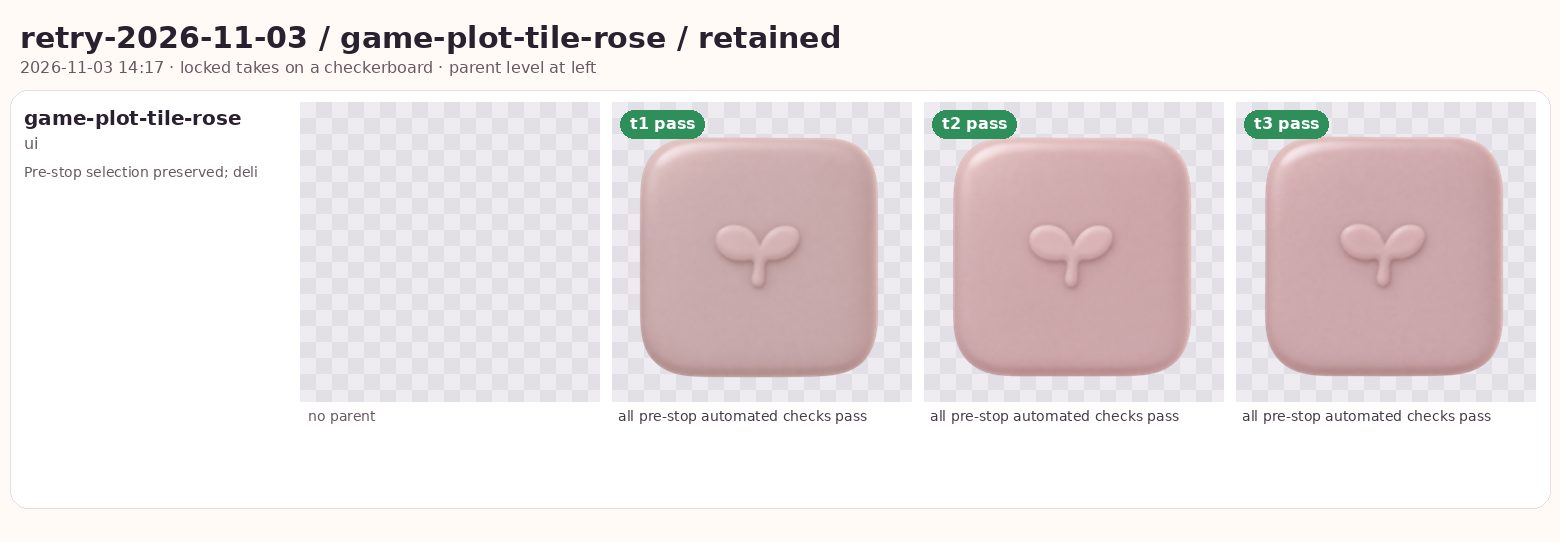
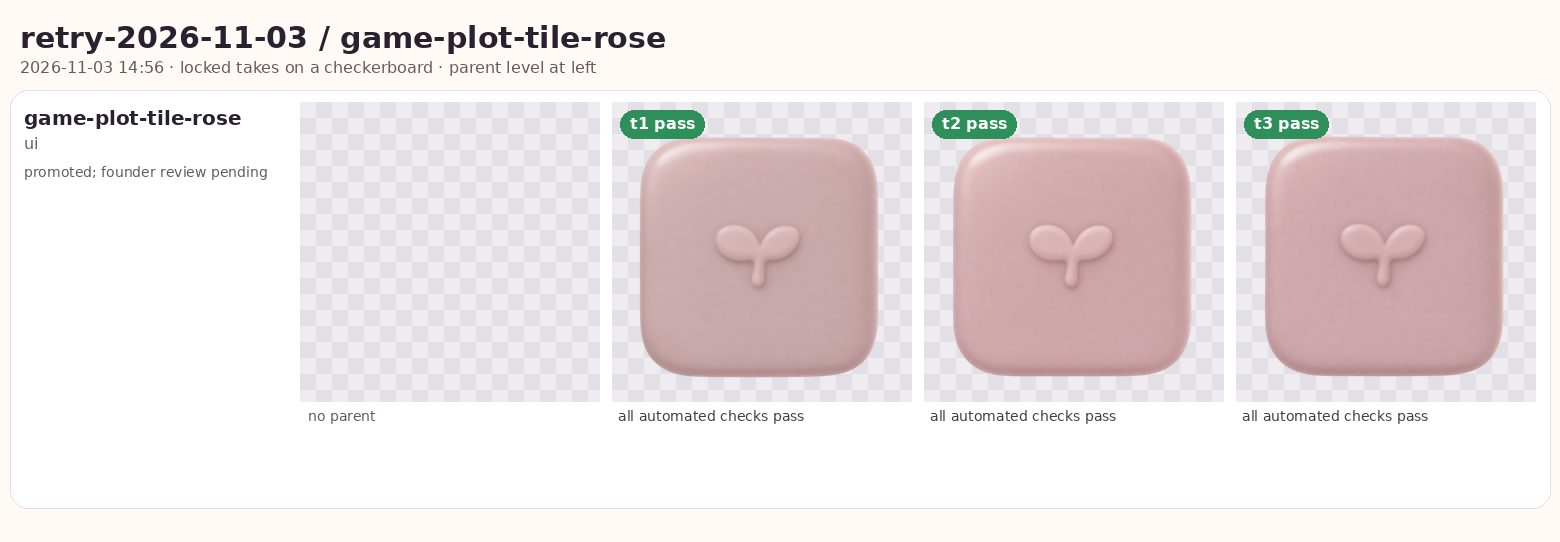
design(art): publish game-plot-tile-rose
Generated-With: OpenAI Codex

diff --git a/design/art/ui/ui-game-plot-tile-rose/provenance.md b/design/art/ui/ui-game-plot-tile-rose/provenance.md
@@ -1,0 +1,50 @@
+# ui__game-plot-tile-rose
+
+- **Approved:** 2026-11-03T14:57:01+00:00 from batch `retry-2026-11-03`, job `game-plot-tile-rose`, take t1
+  of 3 considered.
+- **Generating account:** Founder's uncle's ChatGPT plan, used by the founder with permission
+  (chatgpt-plan).
+- **Tool:** codex-cloud;
+  generated 2026-11-03T14:01:15+00:00.
+- **Post-processing (human-authored, documented per art bible section 13):**
+  canvas fit, alignment to the parent level {"scale": 0.9953, "cx": 505.5, "cy": 958.0, "dx": -4, "dy": 0}, style lock preset `lock-light` (style_lock.json v2).
+- **Files:** `raw.webp` is the take as generated (webp q95), kept so the look can be re-locked; `ui-game-plot-tile-rose.png` is the locked master the app and later edits use.
+- **Review note:** auto-picked by QA; founder review pending. Resume from the saved pre-stop choice t1, with zero new image generation. Re-posted all three real original PNGs under main9ede62e QA: all pass, t1 remains lowest lock load0.5414 versus0.5650 and0.5851, and selected locked RGBA is unchanged. Dusty rose glaze preserves tile shape, highlight, lip and sprout. Historical dispatch evidence remains four attempted calls and three retained images: one initial-pair result was unresolved after ARG_MAX/isolate interruption and a conservative600s timeout; retained initial output requestordinal is unknown. The single fresh retry pair was already spent before the stop. Official takes1/2/3 map to unknown initialordinal/dispatch3/dispatch4. No missing image/hash is invented and no fifthcall was made. This fresh preparation adopts no old partial master or journal.
+
+## References
+
+- `design/art/ui/ui-game-plot-tile-sage/ui-game-plot-tile-sage.png`: The image to edit (the approved previous level). Edit it; do not redraw it.
+
+## Prompt (fingerprint 6a19a4c6554b8e58)
+
+```text
+REFERENCES (attached, in this order):
+1. The image to edit (the approved previous level). Edit it; do not redraw it.
+
+Change only the glaze color of the tile and its sprout to a soft
+dusty rose, in the same finish and the same lightness as before.
+The shape, highlight, lip and sprout stay.
+
+KEEP: everything not named above stays exactly the same as in the
+attached image: every existing part, its shape, color, position and size,
+the canvas, the camera, the light and the painting style. Do not zoom out
+or reframe: if a new part does not fit, make the new part smaller, never
+the existing ones. Outside the new parts, the result must line up with
+the attached image pixel for pixel.
+
+Output: one image, transparent background PNG, square 1024 x 1024.
+```
+
+## QA at approval
+
+- pass: transparency (source has an alpha channel)
+- pass: canvas (1254x1254 scaled x0.817 into 1024x1024)
+- pass: edit_alignment (the edit rescaled the object x1.005 and moved it; aligned back to the parent)
+- pass: chroma_ceiling (chroma p95 14 (R1 51))
+- pass: value_floor (lightness p5 67 (R1 59))
+- pass: detail_budget (detail at display size 0.5 (R1 5.3))
+- pass: lock_load (the lock moved colors by mean dE 0.5)
+- pass: palette_drift (mean dE 0.5, p95 1.3, off-palette 0.0%)
+- pass: edit_silhouette (98% of the parent's shape kept)
+- pass: edit_structure (light structure matches the parent (r 0.95))
+- pass: edit_lightness (mean lightness moved by 4.3 L (the same lightness was asked))
